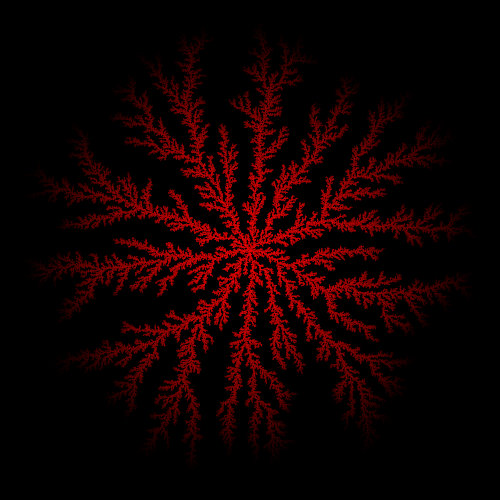
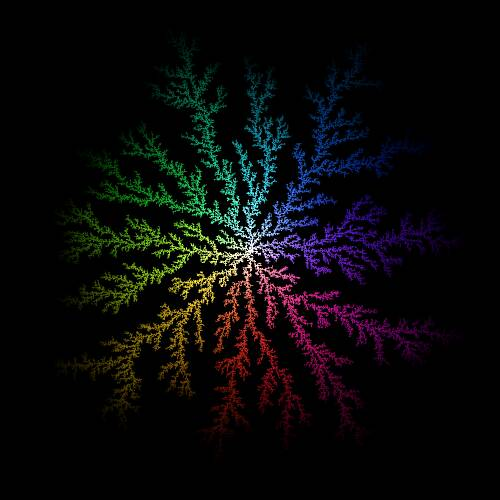
Improved Brownian trees coloring

Changed region(s): [[0.09, 0.09, 0.93, 0.9]]

diff --git a/applets/brownian-trees/scripts/worker.min.js b/applets/brownian-trees/scripts/worker.min.js
@@ -1,1 +1,1 @@
-"use strict";onmessage=async function(r){grid_size=r.data[0],await draw_brownian_tree()};let grid_size=null,margin=null,brownian_tree_graph=[],current_brightness=255,progress_threshhold=5,current_row=null,current_col=null,spawn_radius=null;const directions=[[-1,0],[0,1],[1,0],[0,-1]];function draw_brownian_tree(){return new Promise(function(r,e){brownian_tree_graph=[];for(let r=0;r<grid_size;r++){brownian_tree_graph[r]=[];for(let e=0;e<grid_size;e++)brownian_tree_graph[r][e]=0}for(brownian_tree_graph[Math.floor(grid_size/2)][Math.floor(grid_size/2)]=1,postMessage([Math.floor(grid_size/2),Math.floor(grid_size/2),"rgb(255, 0, 0)"]),margin=10,spawn_radius=5;grid_size-2*spawn_radius>2*margin;){let r=2*Math.random()*Math.PI;for(current_row=Math.floor(spawn_radius*Math.cos(r)+grid_size/2),current_col=Math.floor(spawn_radius*Math.sin(r)+grid_size/2);;){let r=[];current_row>grid_size/2-spawn_radius&&r.push(0),current_col<grid_size/2+spawn_radius&&r.push(1),current_row<grid_size/2+spawn_radius&&r.push(2),current_col>grid_size/2-spawn_radius&&r.push(3);let e=r[Math.floor(Math.random()*r.length)],s=current_row+directions[e][0],i=current_col+directions[e][1];if(1===brownian_tree_graph[s][i]){if(brownian_tree_graph[current_row][current_col]=1,postMessage([current_col,current_row,`rgb(${current_brightness}, 0, 0)`]),spawn_radius*spawn_radius-(current_row-grid_size/2)*(current_row-grid_size/2)-(current_col-grid_size/2)*(current_col-grid_size/2)<=5){spawn_radius++,current_brightness=Math.floor(255*(grid_size/2-10-spawn_radius)/(grid_size/2-10)),100*Math.pow((255-current_brightness)/255,2.71)>progress_threshhold&&(postMessage(["progress",progress_threshhold]),progress_threshhold+=5)}break}current_row=s,current_col=i}}postMessage(["progress",100]),setTimeout(function(){postMessage(["done"])},500),r()})}
+"use strict";onmessage=async function(r){grid_size=r.data[0],await draw_brownian_tree()};let grid_size=null,margin=null,brownian_tree_graph=[],color=[],current_brightness=255,progress_threshhold=5,current_row=null,current_col=null,spawn_radius=null;const directions=[[-1,0],[0,1],[1,0],[0,-1]];function draw_brownian_tree(){return new Promise(function(r,e){brownian_tree_graph=[],color=[];for(let r=0;r<grid_size;r++){brownian_tree_graph[r]=[],color[r]=[];for(let e=0;e<grid_size;e++)brownian_tree_graph[r][e]=0,color[r][e]=[0,0,0]}for(brownian_tree_graph[Math.floor(grid_size/2)][Math.floor(grid_size/2)]=1,color[Math.floor(grid_size/2)][Math.floor(grid_size/2)]=[255,255,255],postMessage([Math.floor(grid_size/2),Math.floor(grid_size/2),"rgb(255, 255, 255)"]),margin=10,spawn_radius=5;grid_size-2*spawn_radius>2*margin;){let r=2*Math.random()*Math.PI;for(current_row=Math.floor(spawn_radius*Math.cos(r)+grid_size/2),current_col=Math.floor(spawn_radius*Math.sin(r)+grid_size/2);;){let r=[];current_row>grid_size/2-spawn_radius&&r.push(0),current_col<grid_size/2+spawn_radius&&r.push(1),current_row<grid_size/2+spawn_radius&&r.push(2),current_col>grid_size/2-spawn_radius&&r.push(3);let e=r[Math.floor(Math.random()*r.length)],o=current_row+directions[e][0],s=current_col+directions[e][1];if(1===brownian_tree_graph[o][s]){brownian_tree_graph[current_row][current_col]=1;let r=HSVtoRGB((Math.atan2(current_col-Math.floor(grid_size/2),Math.floor(grid_size/2)-current_row)+Math.PI)/(2*Math.PI),1,1);if(color[current_row][current_col]=[.9925*color[o][s][0]+.0075*r[0],.9925*color[o][s][1]+.0075*r[1],.9925*color[o][s][2]+.0075*r[2]],postMessage([current_col,current_row,`rgb(${current_brightness/255*color[current_row][current_col][0]}, ${current_brightness/255*color[current_row][current_col][1]}, ${current_brightness/255*color[current_row][current_col][2]})`]),spawn_radius*spawn_radius-(current_row-grid_size/2)*(current_row-grid_size/2)-(current_col-grid_size/2)*(current_col-grid_size/2)<=5){spawn_radius++,current_brightness=Math.floor(255*(grid_size/2-10-spawn_radius)/(grid_size/2-10)),100*Math.pow((255-current_brightness)/255,2.71)>progress_threshhold&&(postMessage(["progress",progress_threshhold]),progress_threshhold+=5)}break}current_row=o,current_col=s}}postMessage(["progress",100]),setTimeout(function(){postMessage(["done"])},500),r()})}function HSVtoRGB(r,e,o){let s,t,n,i,a,_,c,u;switch(_=o*(1-e),c=o*(1-(a=6*r-(i=Math.floor(6*r)))*e),u=o*(1-(1-a)*e),i%6){case 0:s=o,t=u,n=_;break;case 1:s=c,t=o,n=_;break;case 2:s=_,t=o,n=u;break;case 3:s=_,t=c,n=o;break;case 4:s=u,t=_,n=o;break;case 5:s=o,t=_,n=c}return[Math.round(255*s),Math.round(255*t),Math.round(255*n)]}

diff --git a/applets/brownian-trees/scripts/worker.js b/applets/brownian-trees/scripts/worker.js
@@ -17,6 +17,8 @@ let margin = null;
 
 let brownian_tree_graph = [];
 
+let color = [];
+
 let current_brightness = 255;
 
 let progress_threshhold = 5;
@@ -36,20 +38,24 @@ function draw_brownian_tree()
 	return new Promise(function(resolve, reject)
 	{
 		brownian_tree_graph = [];
+		color = [];
 			
 		for (let i = 0; i < grid_size; i++)
 		{
 			brownian_tree_graph[i] = [];
+			color[i] = [];
 			
 			for (let j = 0; j < grid_size; j++)
 			{
 				brownian_tree_graph[i][j] = 0;
+				color[i][j] = [0, 0, 0];
 			}
 		}
 		
 		brownian_tree_graph[Math.floor(grid_size / 2)][Math.floor(grid_size / 2)] = 1;
+		color[Math.floor(grid_size / 2)][Math.floor(grid_size / 2)] = [255, 255, 255];
 		
-		postMessage([Math.floor(grid_size / 2), Math.floor(grid_size / 2), `rgb(255, 0, 0)`]);
+		postMessage([Math.floor(grid_size / 2), Math.floor(grid_size / 2), `rgb(255, 255, 255)`]);
 		
 		
 		
@@ -104,7 +110,13 @@ function draw_brownian_tree()
 				{
 					brownian_tree_graph[current_row][current_col] = 1;
 					
-					postMessage([current_col, current_row, `rgb(${current_brightness}, 0, 0)`]);
+					let new_hue = (Math.atan2(current_col - Math.floor(grid_size / 2), Math.floor(grid_size / 2) - current_row) + Math.PI) / (2 * Math.PI);
+					
+					let new_color = HSVtoRGB(new_hue, 1, 1);
+					
+					color[current_row][current_col] = [.9925 * color[new_row][new_col][0] + .0075 * new_color[0], .9925 * color[new_row][new_col][1] + .0075 * new_color[1], .9925 * color[new_row][new_col][2] + .0075 * new_color[2]];
+					
+					postMessage([current_col, current_row, `rgb(${current_brightness / 255 * color[current_row][current_col][0]}, ${current_brightness / 255 * color[current_row][current_col][1]}, ${current_brightness / 255 * color[current_row][current_col][2]})`]);
 					
 					
 					
@@ -148,4 +160,29 @@ function draw_brownian_tree()
 		
 		resolve();
 	});
+}
+
+
+
+function HSVtoRGB(h, s, v)
+{
+	let r, g, b, i, f, p, q, t;
+	
+	i = Math.floor(h * 6);
+	f = h * 6 - i;
+	p = v * (1 - s);
+	q = v * (1 - f * s);
+	t = v * (1 - (1 - f) * s);
+	
+	switch (i % 6)
+	{
+		case 0: r = v, g = t, b = p; break;
+		case 1: r = q, g = v, b = p; break;
+		case 2: r = p, g = v, b = t; break;
+		case 3: r = p, g = q, b = v; break;
+		case 4: r = t, g = p, b = v; break;
+		case 5: r = v, g = p, b = q; break;
+	}
+    
+	return [Math.round(r * 255), Math.round(g * 255), Math.round(b * 255)];
 }

diff --git a/writing/caligo/chapters/1.html b/writing/caligo/chapters/1.html
@@ -720,7 +720,7 @@
 
 		<div data-aos="fade-up">
 			<p class="body-text">
-				The sun was setting, and autumn was getting well under way. Not that that meant much &mdash; the temperature hadn&#x2019;t dropped below fifty in years. It was a few degrees colder in the winter, but the trees were still green and the skies still clear. A train would arrive on the solstice, and that was about as much fanfare as the city would get.
+				The sun was setting, and autumn was getting well underway. Not that that meant much &mdash; the temperature hadn&#x2019;t dropped below fifty in years. It was a few degrees colder in the winter, but the trees were still green and the skies still clear. A train would arrive on the solstice, and that was about as much fanfare as the city would get.
 			</p>
 		</div>
 
